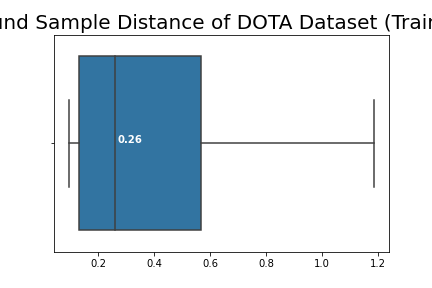
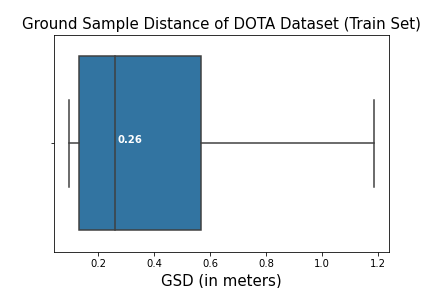
clean up graphs

Changed region(s): [[0.0, 0.0312, 1.0, 0.125], [0.3611, 0.9375, 0.662, 1.0]]

diff --git a/_posts/2020-02-09-Overhead-Imagery-Datasets.md b/_posts/2020-02-09-Overhead-Imagery-Datasets.md
@@ -46,7 +46,8 @@ DOTA is a large dataset that combines aerial and satellite imagery. It combines 
 
 [DOTA: A Large-scale Dataset for Object Detection in Aerial Images](https://arxiv.org/abs/1711.10398)
 
-#### Categories (abbreviation used on Leaderboard)
+#### Categories
+(abbreviations used on leaderboard are shown as well)
 Plane, Ship, Storage Tank (ST), Baseball Diamond (BD), Tennis Court (TC), Basketball Court (BC), Ground Track Field (GTF), Harbor, Bridge, Large Vehicle (LV), Small Vehicle (SV), Helicopter (HC), Roundabout (RA), Soccer Ball Field (SBF), Basketball Court
 
 #### Leaderboard
@@ -54,6 +55,8 @@ Plane, Ship, Storage Tank (ST), Baseball Diamond (BD), Tennis Court (TC), Basket
 [DOTA Leaderboard](https://captain-whu.github.io/DOTA/results.html)
 
 #### GSD Distribution
+
+Here are histograms and boxplots of the ground sample distance for images in the dataset (when provided). Outliers have been excluded from the box plot for clarity.
 
 ![DOTA_GSD]({{site.baseurl}}/assets/img/Training_histo.png "DOTA GSD")
 
